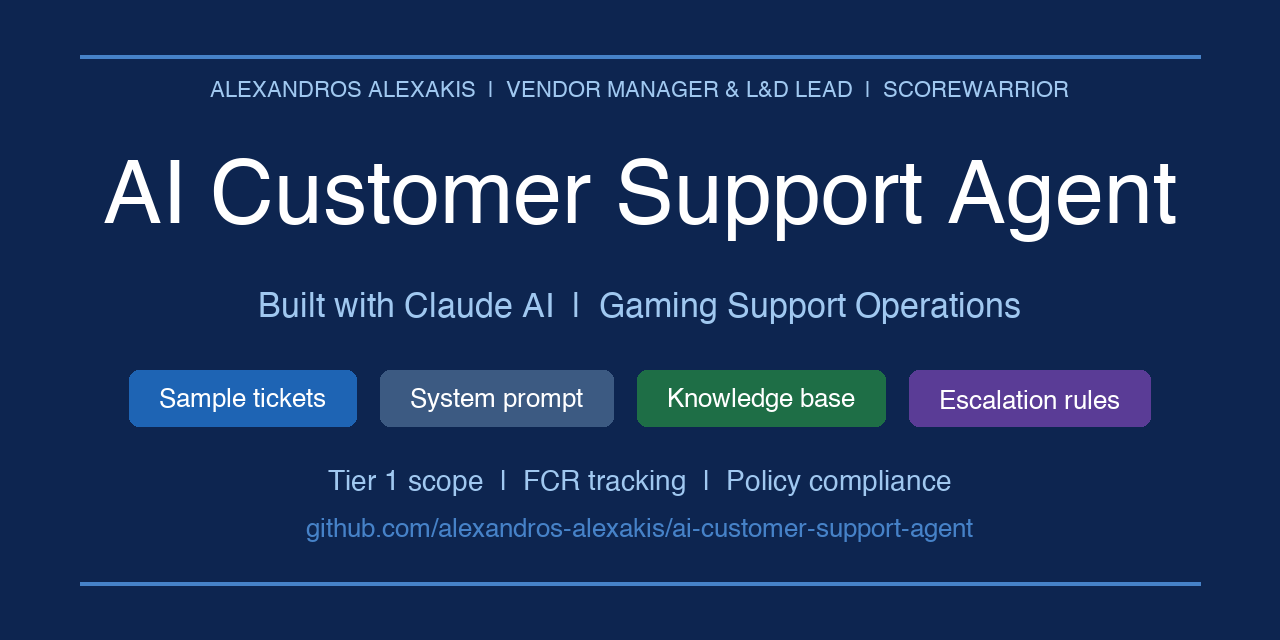
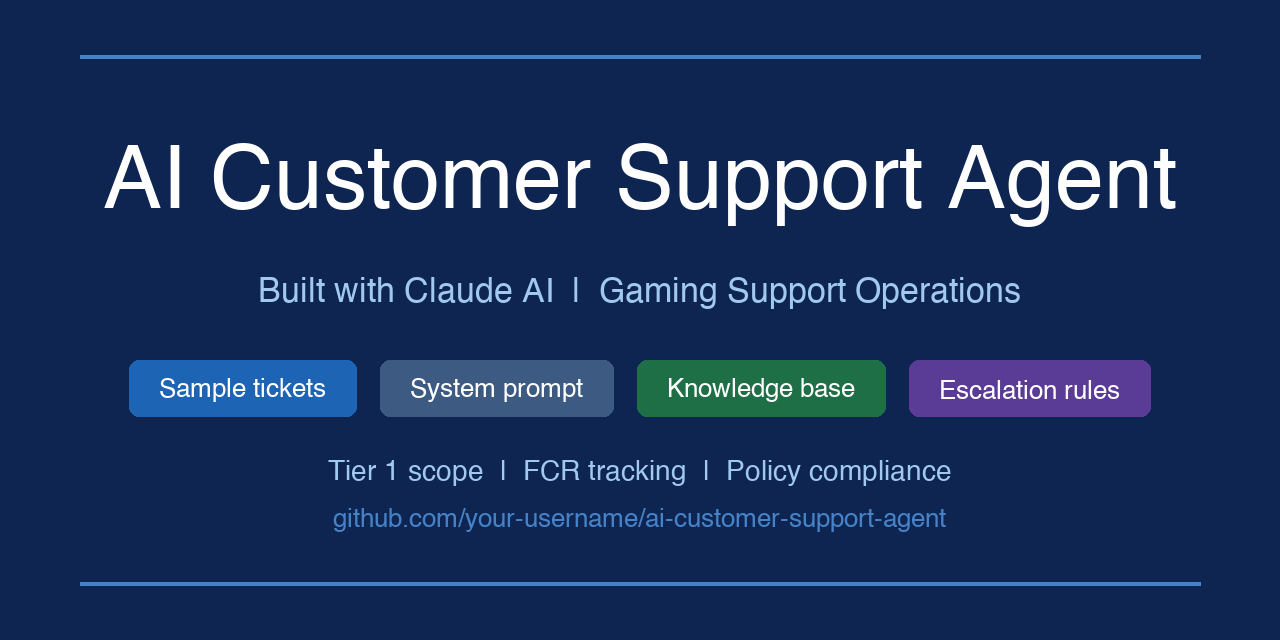
Remove all company and personal identity references from repo

diff --git a/README.md b/README.md
@@ -1,14 +1,12 @@
 # Player Care AI - Support System Design
 
-![Project Banner](banner%20(1).png)
+![Project Banner](banner.png)
 
 ## What this is
 
 A structured prototype for a Tier 1 customer support assistant, designed for gaming player care operations.
 
 This project documents the design logic, decision rules, knowledge base, escalation framework, and evaluation criteria for a prompt-driven AI support assistant built on Claude (Anthropic). It includes a working Python classification engine for ticket triage.
-
-Built by **Alexandros Alexakis**, Vendor Manager & L&D Lead at Scorewarrior.
 
 ---
 
@@ -49,7 +47,7 @@ This is a **policy-driven support assistant prototype**. The assistant responds 
 ## Quickstart
 
 ```bash
-git clone https://github.com/alexandros-alexakis/ai-customer-support-agent.git
+git clone https://github.com/your-username/ai-customer-support-agent.git
 cd ai-customer-support-agent
 python -m venv venv && source venv/bin/activate
 pip install -r requirements.txt
@@ -171,15 +169,6 @@ make eval
 - CSAT by ticket complexity band
 
 See [evaluation-criteria.md](evaluation-criteria.md) for full metric definitions and [evaluation/failure-analysis.md](evaluation/failure-analysis.md) for known failure modes.
-
----
-
-## Author
-
-**Alexandros Alexakis**
-Vendor Manager & L&D Lead | Player Care
-Scorewarrior, Limassol, Cyprus
-[LinkedIn](https://www.linkedin.com/in/alexandros-alexakis/)
 
 ---
 

diff --git a/SETUP.md b/SETUP.md
@@ -18,14 +18,14 @@ Full installation and configuration instructions for all operating systems.
 
 **macOS / Linux:**
 ```bash
-git clone https://github.com/alexandros-alexakis/ai-customer-support-agent.git
+git clone https://github.com/your-username/ai-customer-support-agent.git
 cd ai-customer-support-agent
 bash setup.sh
 ```
 
 **Windows (Command Prompt, not PowerShell):**
 ```
-git clone https://github.com/alexandros-alexakis/ai-customer-support-agent.git
+git clone https://github.com/your-username/ai-customer-support-agent.git
 cd ai-customer-support-agent
 setup.bat
 ```
@@ -51,7 +51,7 @@ The setup scripts handle everything and print clear next steps when done.
 ### Step 1: Clone the repository
 
 ```bash
-git clone https://github.com/alexandros-alexakis/ai-customer-support-agent.git
+git clone https://github.com/your-username/ai-customer-support-agent.git
 cd ai-customer-support-agent
 ```
 

diff --git a/QUICKSTART.md b/QUICKSTART.md
@@ -8,7 +8,7 @@ Get from clone to a running agent in under 5 minutes.
 
 **macOS / Linux:**
 ```bash
-git clone https://github.com/alexandros-alexakis/ai-customer-support-agent.git
+git clone https://github.com/your-username/ai-customer-support-agent.git
 cd ai-customer-support-agent
 bash setup.sh
 source venv/bin/activate
@@ -17,7 +17,7 @@ python run_agent.py --demo
 
 **Windows (Command Prompt):**
 ```
-git clone https://github.com/alexandros-alexakis/ai-customer-support-agent.git
+git clone https://github.com/your-username/ai-customer-support-agent.git
 cd ai-customer-support-agent
 setup.bat
 venv\Scripts\activate

diff --git a/evaluation-criteria.md b/evaluation-criteria.md
@@ -183,7 +183,7 @@ QA checklist reviewed against the prohibited actions list in system-prompt.md. E
 |---|---|---|
 | QA ticket sampling (10%) | Weekly | QA Reviewer |
 | Escalation accuracy audit | Weekly | Team Lead |
-| CSAT by complexity band | Weekly | L&D Lead |
-| Consistency testing | Monthly | L&D Lead |
+| CSAT by complexity band | Weekly | QA Lead |
+| Consistency testing | Monthly | QA Lead |
 | Incident detection review | Post-incident | Team Lead |
-| Full evaluation review | Monthly | Vendor Manager |
+| Full evaluation review | Monthly | Operations Manager |

diff --git a/operations/capacity-planning-guide.md b/operations/capacity-planning-guide.md
@@ -51,8 +51,8 @@ Gaming support ticket volumes follow predictable patterns:
 | Horizon | Purpose | Owner |
 |---|---|---|
 | Daily | Intraday staffing adjustments | Team Lead |
-| Weekly | Schedule planning for next week | Vendor Manager |
-| Monthly | Headcount review and BPO coordination | Vendor Manager / L&D Lead |
+| Weekly | Schedule planning for next week | Operations Manager |
+| Monthly | Headcount review and BPO coordination | Operations Manager / QA Lead |
 | Quarterly | Strategic headcount and hiring plan | Management |
 
 ---

diff --git a/integrations/zendesk-integration-guide.md b/integrations/zendesk-integration-guide.md
@@ -73,7 +73,7 @@ Create a `.env` file in the project root. Never commit this file.
 ```bash
 # .env
 ANTHROPIC_API_KEY=your_anthropic_api_key_here
-ZENDESK_SUBDOMAIN=yourcompany          # e.g. scorewarrior (not the full URL)
+ZENDESK_SUBDOMAIN=yourcompany          # your Zendesk subdomain (not the full URL)
 ZENDESK_EMAIL=support@yourcompany.com  # Admin email
 ZENDESK_API_TOKEN=your_zendesk_api_token
 WEBHOOK_SECRET=generate_a_random_string_here

diff --git a/CONTRIBUTING.md b/CONTRIBUTING.md
@@ -82,6 +82,4 @@ The gap between a working local prototype and a live production system is real. 
 
 ## Contact
 
-For questions or discussions, connect via [LinkedIn](https://www.linkedin.com/in/alexandros-alexakis/).
-
-Repository: [github.com/alexandros-alexakis/ai-customer-support-agent](https://github.com/alexandros-alexakis/ai-customer-support-agent)
+Open an issue on GitHub for questions or discussions.

diff --git a/GETTING_STARTED.md b/GETTING_STARTED.md
@@ -21,8 +21,8 @@ python --version
 
 **1. Clone the repository**
 ```bash
-git clone https://github.com/alexandros-alexakis/customer-support-agent.git
-cd customer-support-agent
+git clone https://github.com/your-username/ai-customer-support-agent.git
+cd ai-customer-support-agent
 ```
 
 **2. Install dependencies**
